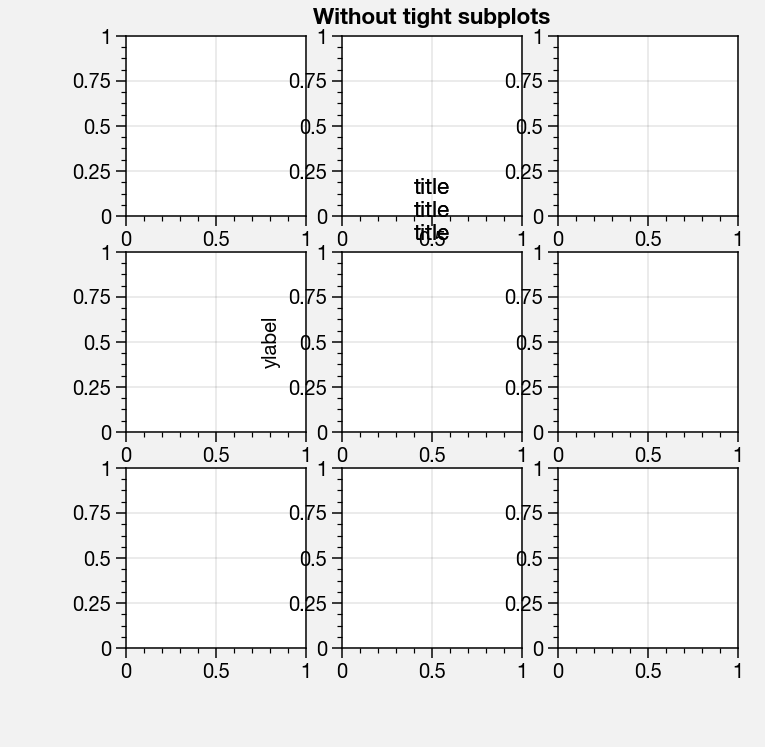
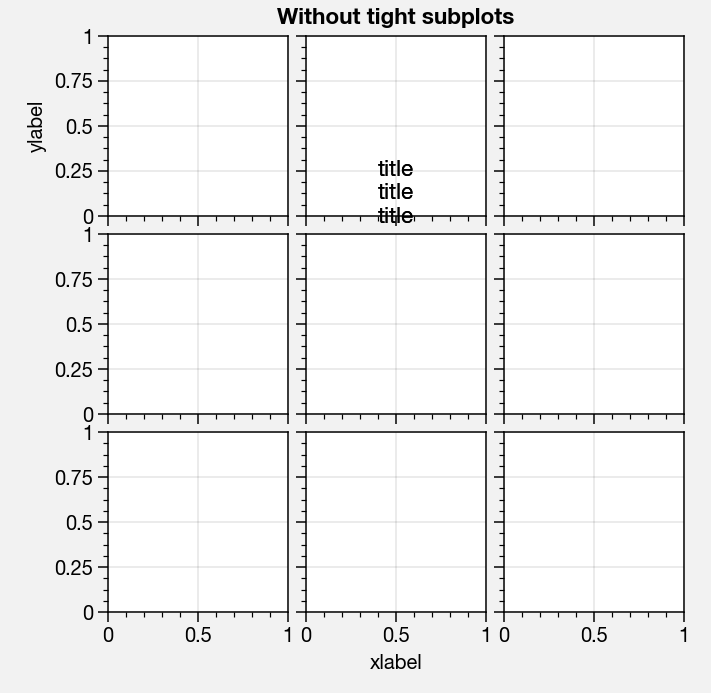
Better showcase

Changed region(s): [[0.0619, 0.0, 0.9902, 0.9697], [0.0309, 0.1515, 0.0619, 0.2121]]

diff --git a/proplot/axes.py b/proplot/axes.py
@@ -179,15 +179,15 @@ _options = {
 # For documentation
 #------------------------------------------------------------------------------#
 def _sphinx_name(name):
-    # Get sphinx name
+    """Gets sphinx name."""
     if name=='cmapline':
         return f'`~BaseAxes.{name}`'
     else:
         return f'`~matplotlib.axes.Axes.{name}`'
 def _expand_wrapped_methods(func):
-    # Fills `_method_list` with a list of methods that link to matplotlib
-    # documentation, so we don't have to document the lists themselves.
-    # NOTE: Each list must be at least length 2
+    """Fills `_method_list` with a list of methods that link to matplotlib
+    documentation. Previously had documented public tuples storing the method
+    names, this is much cleaner."""
     doc = func.__doc__
     for name,methods in (
         ('_centers_methods',       _centers_methods),
@@ -196,7 +196,7 @@ def _expand_wrapped_methods(func):
         ('_simple_methods',        _simple_methods),
         ('_cycle_methods',         _cycle_methods),
         ('_cmap_methods',          _cmap_methods),
-        ('_disabled_methods',      [method for methods in _disabled_methods.values() for method in methods]),
+        ('_disabled_methods',      (*(method for methods in _disabled_methods.values() for method in methods),)),
         ('_map_disabled_methods',  _map_disabled_methods),
         ):
         if f'`{name}`' not in doc:

diff --git a/docs/showcase.rst b/docs/showcase.rst
@@ -202,30 +202,51 @@ you didn’t specify) such that the subplot aspect ratios will not change,
 and by taking advantage of ProPlot’s subplot layout restrictions. Some
 examples are below.
 
+Sometimes, ``tight=True`` is not possible (when using the cartopy
+``set_extent`` method or when using cartopy meridian and parallel
+labelling; a warning will be raised in these instances). Even when
+``tight=False``, ProPlot tries to make the default spacing reasonable.
+
 .. code:: ipython3
 
     import proplot as plot
-    f, axs = plot.subplots(nrows=3, ncols=3, aspect=1, axwidth=1, share=0, span=0, tight=False)
-    axs[4].format(ylabel='ylabel', xlabel='xlabel', title='title\ntitle\ntitle', suptitle='Without tight subplots')
+    for share in (3,0):
+        f, axs = plot.subplots(nrows=3, ncols=3, aspect=1, axwidth=1, share=share, span=False, tight=False)
+        axs[4].format(title='title\ntitle\ntitle', suptitle='Without tight subplots')
+        axs[1].format(ylabel='ylabel', xlabel='xlabel')
 
 
 
 .. image:: showcase/showcase_15_0.png
-   :width: 382px
-   :height: 373px
+   :width: 355px
+   :height: 346px
+
+
+
+.. image:: showcase/showcase_15_1.png
+   :width: 454px
+   :height: 445px
 
 
 .. code:: ipython3
 
     import proplot as plot
-    f, axs = plot.subplots(nrows=3, ncols=3, aspect=1, axwidth=1.2, share=0, span=0)
-    axs[4].format(ylabel='ylabel', xlabel='xlabel', title='title\ntitle\ntitle', suptitle='With tight subplots')
+    for share in (3,0):
+        f, axs = plot.subplots(nrows=3, ncols=3, aspect=1, axwidth=1, share=share, span=False, tight=True)
+        axs[4].format(title='title\ntitle\ntitle', suptitle='With tight subplots')
+        axs[1].format(ylabel='ylabel', xlabel='xlabel')
 
 
 
 .. image:: showcase/showcase_16_0.png
-   :width: 436px
-   :height: 463px
+   :width: 366px
+   :height: 399px
+
+
+
+.. image:: showcase/showcase_16_1.png
+   :width: 412px
+   :height: 422px
 
 
 .. code:: ipython3
